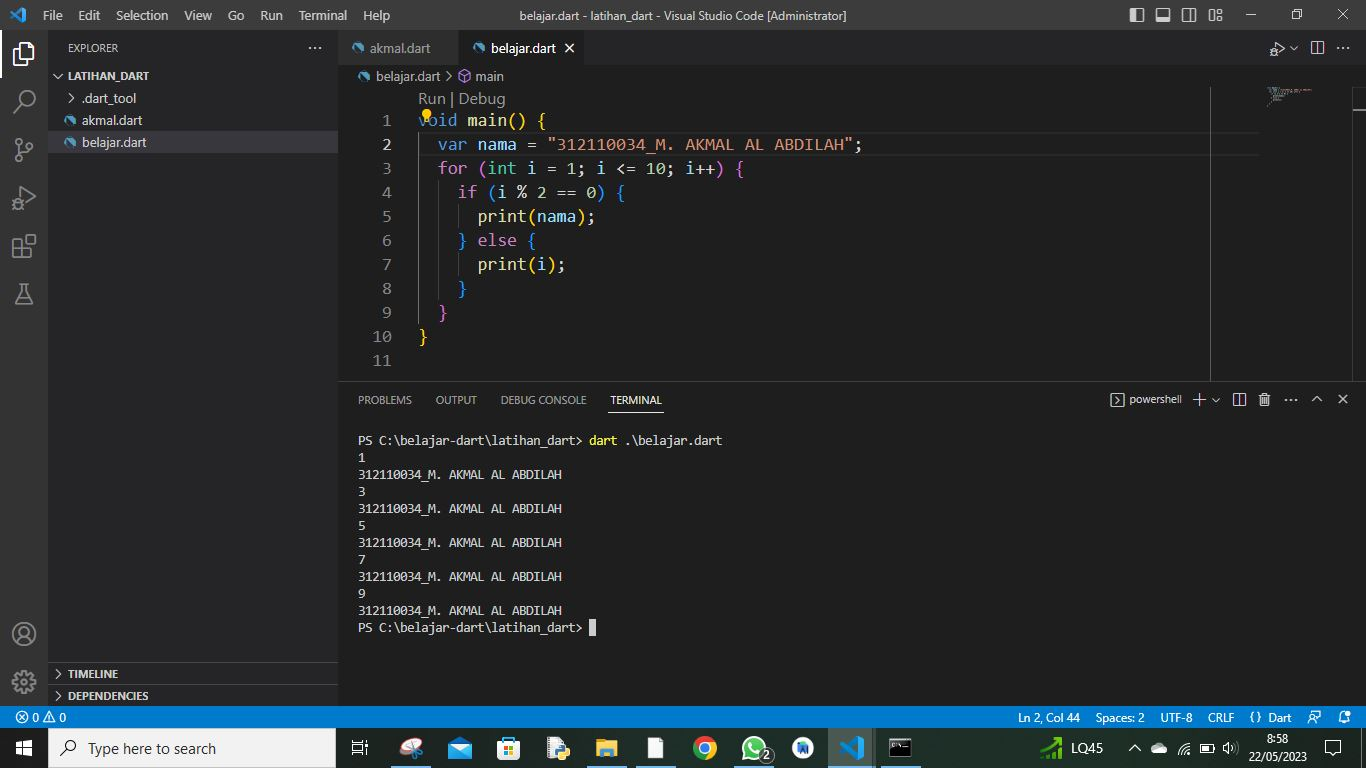
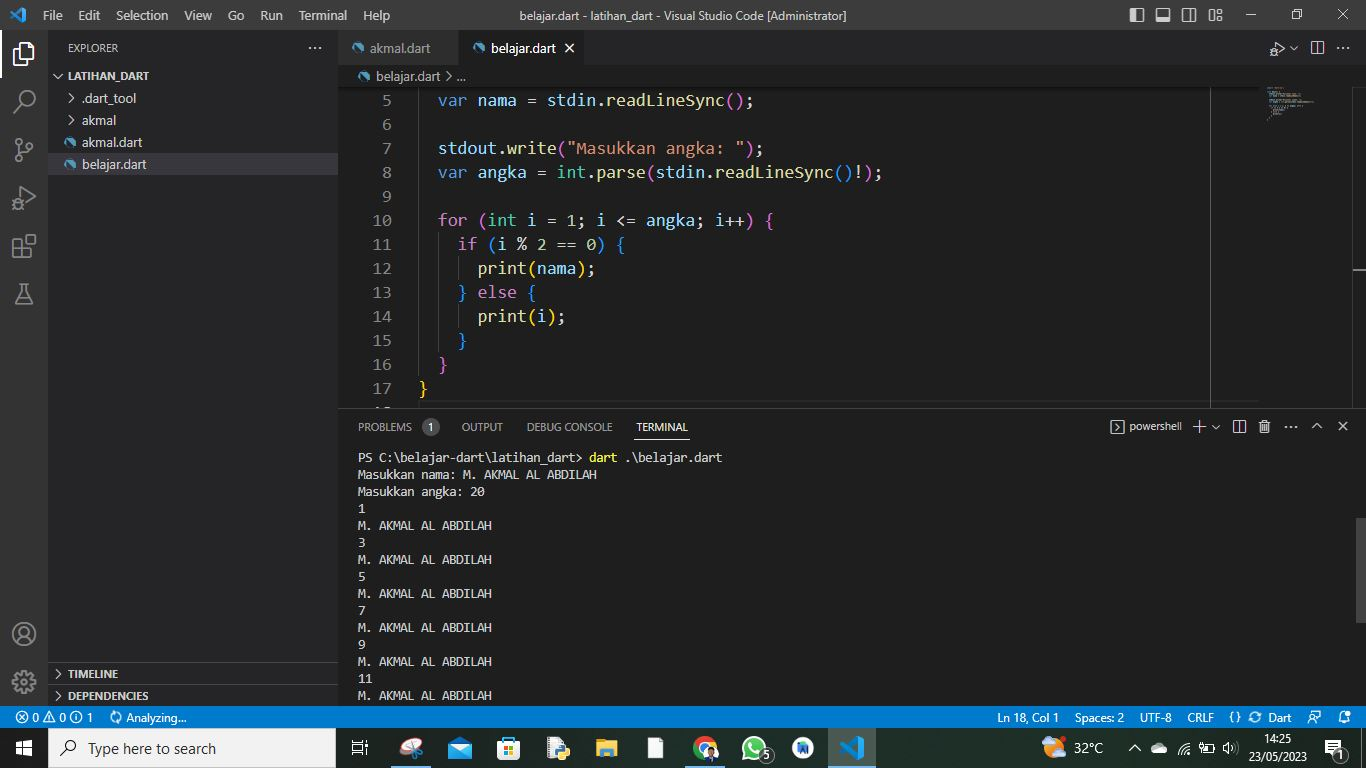
menambahkan .

diff --git a/README.md b/README.md
@@ -48,9 +48,16 @@ di visual Studio Code. Jalankan perintah berikut:
 ![Gambar 2](Screenshots/ss2.JPG)
 
 ```dart
+import 'dart:io';
+
 void main() {
-  var nama = "312110034_M. AKMAL AL ABDILAH";
-  for (int i = 1; i <= 10; i++) {
+  stdout.write("Masukkan nama: ");
+  var nama = stdin.readLineSync();
+
+  stdout.write("Masukkan angka: ");
+  var angka = int.parse(stdin.readLineSync()!);
+
+  for (int i = 1; i <= angka; i++) {
     if (i % 2 == 0) {
       print(nama);
     } else {
@@ -58,6 +65,7 @@ void main() {
     }
   }
 }
+
 
 ```
 
